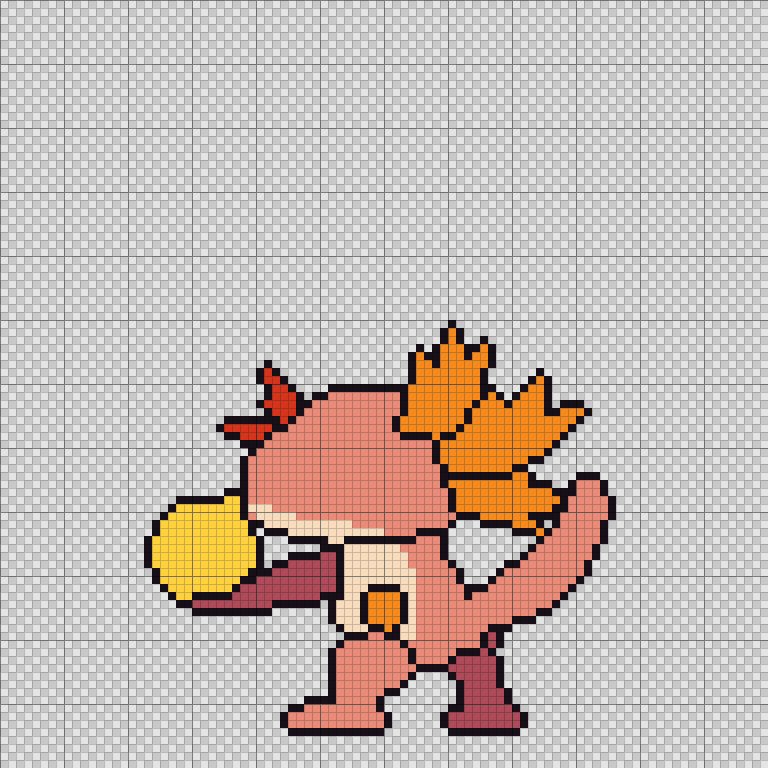
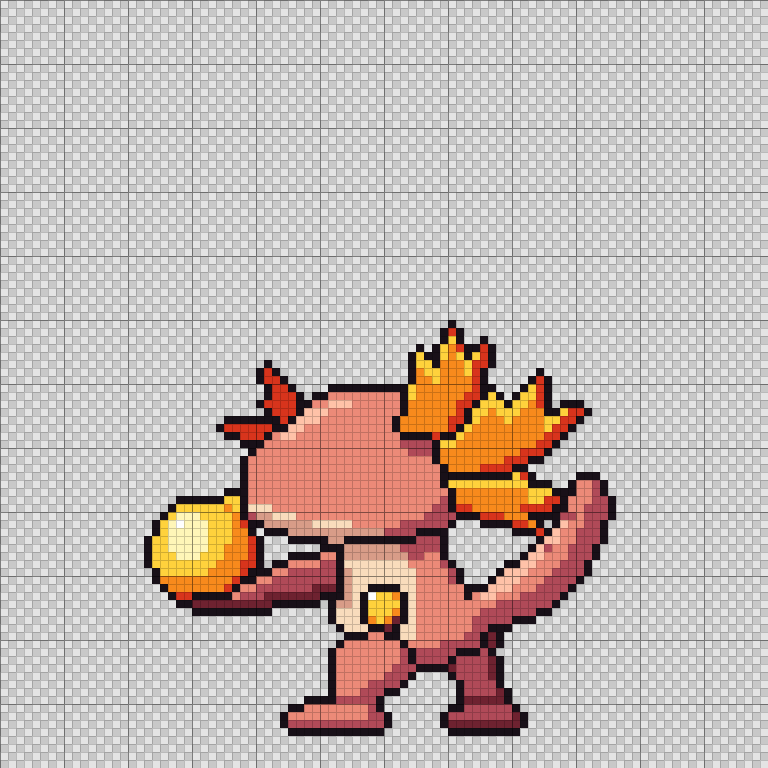
Kilnlotl stage 3: shading
Shadow crescents on the lower right of each form, cast shadows from the
head, arm, near leg and gills, highlight shapes on lit planes, and a
glowing core, rim and glint on the glass bubble and belly window.

Claude-Session: https://claude.ai/code/session_015N853SUWqrmyHcbNWNuNxK

Changed region(s): [[0.1875, 0.4062, 0.8125, 0.9688], [0.3438, 0.5, 0.4688, 0.5938]]

diff --git a/art/creatures/kilnlotl.px.js b/art/creatures/kilnlotl.px.js
@@ -4,7 +4,8 @@
 // molten glass bubble from its pursed lips and cradling it in its far hand, tail raised as
 // a counterweight.
 //
-// Stage 1: silhouette (kilnlotl_sil). Stage 2: flat colours (kilnlotl). Process and rules:
+// Stage 1: silhouette (kilnlotl_sil). Stage 2: flat colours (kilnlotl_flats). Stage 3:
+// shading (kilnlotl). Process and rules:
 // art/BW_STYLE.md. Every part is a hand-placed polygon in design space, overlapping the part
 // it attaches to so nothing floats; T scales design space down to starter size.
 
@@ -62,18 +63,31 @@ const ARM = [38, 61, 30, 63, 22, 64, 14, 66, 8, 66, 3, 63, 1, 58, 4, 58, 7, 62, 
 const shape = (q) => (q.p ? { s: T(q.p) } : { ell: [...T(q.e.slice(0, 2)), q.e[2] * K, q.e[3] * K] })
 
 // ---- parts back to front. Parts in different groups get a contour where they overlap.
+// Shading (stage 3), all in output pixels, one light from the upper left:
+//   sh: [dx, dy]  shadow crescent: pixels whose (x+dx, y+dy) falls outside the part
+//   rim: [dx, dy] a second, darker crescent hugging the bottom-right edge (glass)
+//   hl: shape     highlight shape on the lit plane (design space), or
+//   top: n        lit top edge, n px deep (flame tips, top of the far arm)
+//   core: shape   hot core (glass), glint: [x, y] white specular pixels (design space)
+//   cast: true    the part casts a shadow down-right onto the parts behind it
 const parts = [
   ...FAR_GILLS.map((p) => ({ g: "farGill", s: T(p), c: "R" })),
-  ...FAR_LEG.map((q) => ({ g: "farLeg", ...shape(q), c: "S" })),
-  { g: "torso", s: T(TORSO_TAIL), c: "s", tone: [[T(BELLY), "c"]] },
-  { g: "window", circle: [T([46, 65]), 6 * K], c: "o" },
-  ...NEAR_LEG.map((q) => ({ g: "nearLeg", ...shape(q), c: "s" })),
-  { g: "head", s: T(HEAD), c: "s", tone: [[T(THROAT), "c"]] },
-  ...NEAR_GILLS.map((p, i) => ({ g: "gill" + i, s: T(p), c: "o" })),
-  { g: "arm", s: T(ARM), c: "S" },
+  ...FAR_LEG.map((q) => ({ g: "farLeg", ...shape(q), c: "S", sh: [1, 1] })),
+  { g: "torso", s: T(TORSO_TAIL), c: "s", tone: [[T(BELLY), "c"]], sh: [2, 2],
+    hl: { s: T([66, 60, 76, 54, 84, 46, 87, 41, 84, 51, 76, 59, 68, 64]) } },
+  { g: "window", circle: [T([46, 65]), 6 * K], c: "o", rim: [1, 1],
+    core: { circle: [T([45, 64]), 3.6 * K] }, glint: [[43, 62]] },
+  ...NEAR_LEG.map((q) => ({ g: "nearLeg", ...shape(q), c: "s", sh: [2, 1], cast: true })),
+  { g: "head", s: T(HEAD), c: "s", tone: [[T(THROAT), "c"]], sh: [2, 2], cast: true,
+    hl: { s: T([22, 27, 27, 23, 34, 21, 40, 21, 35, 23, 29, 26, 25, 30]) } },
+  ...NEAR_GILLS.map((p, i) => ({ g: "gill" + i, s: T(p), c: "o", sh: [1, 1], top: 2, cast: true })),
+  { g: "arm", s: T(ARM), c: "S", sh: [1, 1], top: 1, cast: true },
   { g: "glass", s: T([17, 41, 15, 47, 11, 48, 12, 42]), c: "y" },
-  { g: "glass", circle: [T([7, 53]), 11 * K], c: "y" },
+  { g: "glass", circle: [T([7, 53]), 11 * K], c: "y", sh: [3, 3], rim: [1, 1],
+    core: { circle: [T([4, 50]), 5 * K] }, glint: [[1, 47], [2, 46]] },
 ]
+const SHADOW = { s: "S", c: "C", S: "D", o: "R", y: "o", R: "D", L: "s", Y: "y" }
+const LIGHT = { s: "L", S: "s", o: "y", y: "Y", c: "c", R: "o" }
 
 function inPoly(pts, x, y) {
   const px = x + 0.5, py = y + 0.5
@@ -89,13 +103,25 @@ const inPart = (p, x, y) => p.circle
   : p.ell ? ((x + 0.5 - p.ell[0]) / p.ell[2]) ** 2 + ((y + 0.5 - p.ell[1]) / p.ell[3]) ** 2 <= 1
   : inPoly(p.s, x, y)
 
-function render(c, { lines }) {
+function render(c, { lines, shading }) {
   const N = 96, own = new Int16Array(N * N).fill(-1), col = new Array(N * N).fill(null)
   parts.forEach((p, i) => {
+    const inP = (x, y) => inPart(p, x, y)
     for (let y = 0; y < N; y++) for (let x = 0; x < N; x++) {
-      if (!inPart(p, x, y)) continue
+      if (!inP(x, y)) continue
       let k = p.c
       for (const [t, tc] of p.tone || []) if (inPoly(t, x, y)) k = tc
+      if (shading) {
+        const base = k
+        if (p.hl && inPart(p.hl, x, y)) k = LIGHT[base] || base
+        if (p.top && !inP(x, y - p.top)) k = LIGHT[base] || base
+        if (p.core && inPart(p.core, x, y)) k = LIGHT[base] || base
+        let dark = p.sh && !inP(x + p.sh[0], y + p.sh[1])
+        for (let j = i + 1; j < parts.length && !dark; j++)
+          if (parts[j].cast && parts[j].g !== p.g && inPart(parts[j], x - 1, y - 2)) dark = true
+        if (dark) k = SHADOW[base] || base
+        if (p.rim && !inP(x + p.rim[0], y + p.rim[1])) k = SHADOW[SHADOW[base]] || k
+      }
       own[y * N + x] = i; col[y * N + x] = k
     }
   })
@@ -108,6 +134,10 @@ function render(c, { lines }) {
       if (lines && i >= 0 && j >= 0 && j < i && parts[j].g !== parts[i].g) { out[y * N + x] = "k"; break }
     }
   }
+  if (shading) for (const p of parts) for (const g of p.glint || []) {
+    const [x, y] = T(g).map(Math.floor)
+    if (out[y * N + x] && out[y * N + x] !== "k") out[y * N + x] = "w"
+  }
   for (let y = 0; y < N; y++) for (let x = 0; x < N; x++) if (out[y * N + x]) c.px(x, y, out[y * N + x])
 }
 
@@ -119,4 +149,7 @@ sprite("kilnlotl_sil", { w: 96, h: 96 }, (c) => {
 })
 
 // Stage 2: flat colours, one base per material, contours where parts overlap
-sprite("kilnlotl", { w: 96, h: 96 }, (c) => render(c, { lines: true }))
+sprite("kilnlotl_flats", { w: 96, h: 96 }, (c) => render(c, { lines: true }))
+
+// Stage 3: shading
+sprite("kilnlotl", { w: 96, h: 96 }, (c) => render(c, { lines: true, shading: true }))
